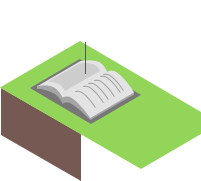
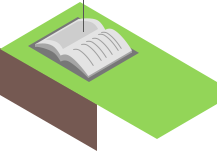
replaced ourstory title and hovers

diff --git a/src/sass/about-island.scss b/src/sass/about-island.scss
@@ -16,6 +16,7 @@
 }
 .figures-hover {
   top: -80px;
+  // border-bottom: 50px solid transparent;
 }
 .shadows {
   top: 56px;
@@ -79,8 +80,12 @@
   transform: skewY(-30deg);
   color: white;
   font-size: 17px;
-  top: 255px;
-  left: 82px;
+  top: 272px;
+  left: 81px;
+}
+.story-title-hover {
+  top: 264px;
+  left: 65px;
 }
 .advisors-title {
   transform: skewY(-30deg);
@@ -127,28 +132,27 @@
   top: 50px;
 }
 
-#ourstory {
-  background-image: image();
-  background-image: url('img/OurStory.png');
-  top: 249px;
-  left: 42px;
-  width: 201px;
-  height: 181px;
-  &:hover {
-    background-image: url('img/OurStory_hover.png');
-    top: 238px;
-    left: 28px;
-    width: 217px;
-    height: 193px;
-  }
-  &::before {
-    content: url('img/OurStory_hover.png');
-    width:0;
-    height:0;
-    visibility: hidden;
-  }
-}
+.ourstory {
 
+  top: 287px;
+  left: 40px;
+  // width: 201px;
+  // height: 181px;
+
+  //   width: 217px;
+  //   height: 193px;
+  // }
+  // &::before {
+  //   content: url('img/OurStory_hover.png');
+  //   width:0;
+  //   height:0;
+  //   visibility: hidden;
+  // }
+}
+.ourstory-hover {
+  top: 279px;
+  left: 25px;
+}
 
 #advisors {
   top: 290px;

diff --git a/src/js/hovers.js b/src/js/hovers.js
@@ -24,6 +24,21 @@
     }
   );
 
+  // $('.figures').hover(
+  //   function () {
+  //     $(this).addClass('figures-hover');
+  //     $('.team').addClass('team-hover');
+  //     $('.team-title').addClass('team-title-hover');
+  //     $('.shadows').addClass('shadows-hover');
+  //   },
+  //   function () {
+  //     $(this).removeClass('figures-hover');
+  //     $('.team').removeClass('team-hover');
+  //     $('.team-title').removeClass('team-title-hover');
+  //     $('.shadows').removeClass('shadows-hover');
+  //   }
+  // );
+
   $('.company-title').hover(
     function () {
       $(this).addClass('company-title-hover');
@@ -47,6 +62,17 @@
       $(this).removeClass('company-penguin-hover');
       $('.company').removeClass('company-hover');
       $('.company-title').removeClass('company-title-hover');
+    }
+  );
+
+  $('.ourstory').hover(
+    function () {
+      $(this).addClass('ourstory-hover');
+      $('.story-title').addClass('story-title-hover');
+    },
+    function () {
+      $(this).removeClass('ourstory-hover');
+      $('.story-title').removeClass('story-title-hover');
     }
   );
 

diff --git a/src/index.html b/src/index.html
@@ -167,8 +167,9 @@
         <img class='company-penguin' src='img/Company_penguin.png' alt=''>
         <div id='contactus' class='mobile-hide'>
         </div>
-        <div id='ourstory' class='mobile-hide'>
-        </div>
+        <!-- <div id='ourstory' class='mobile-hide'>
+        </div> -->
+        <img class='ourstory mobile-hide' src='img/OurStory.png' alt=''>
         <img id='advisors' class='mobile-hide' src='img/Advisors.png'>
         <div id='bulb' class='mobile-hide'>
         </div>
